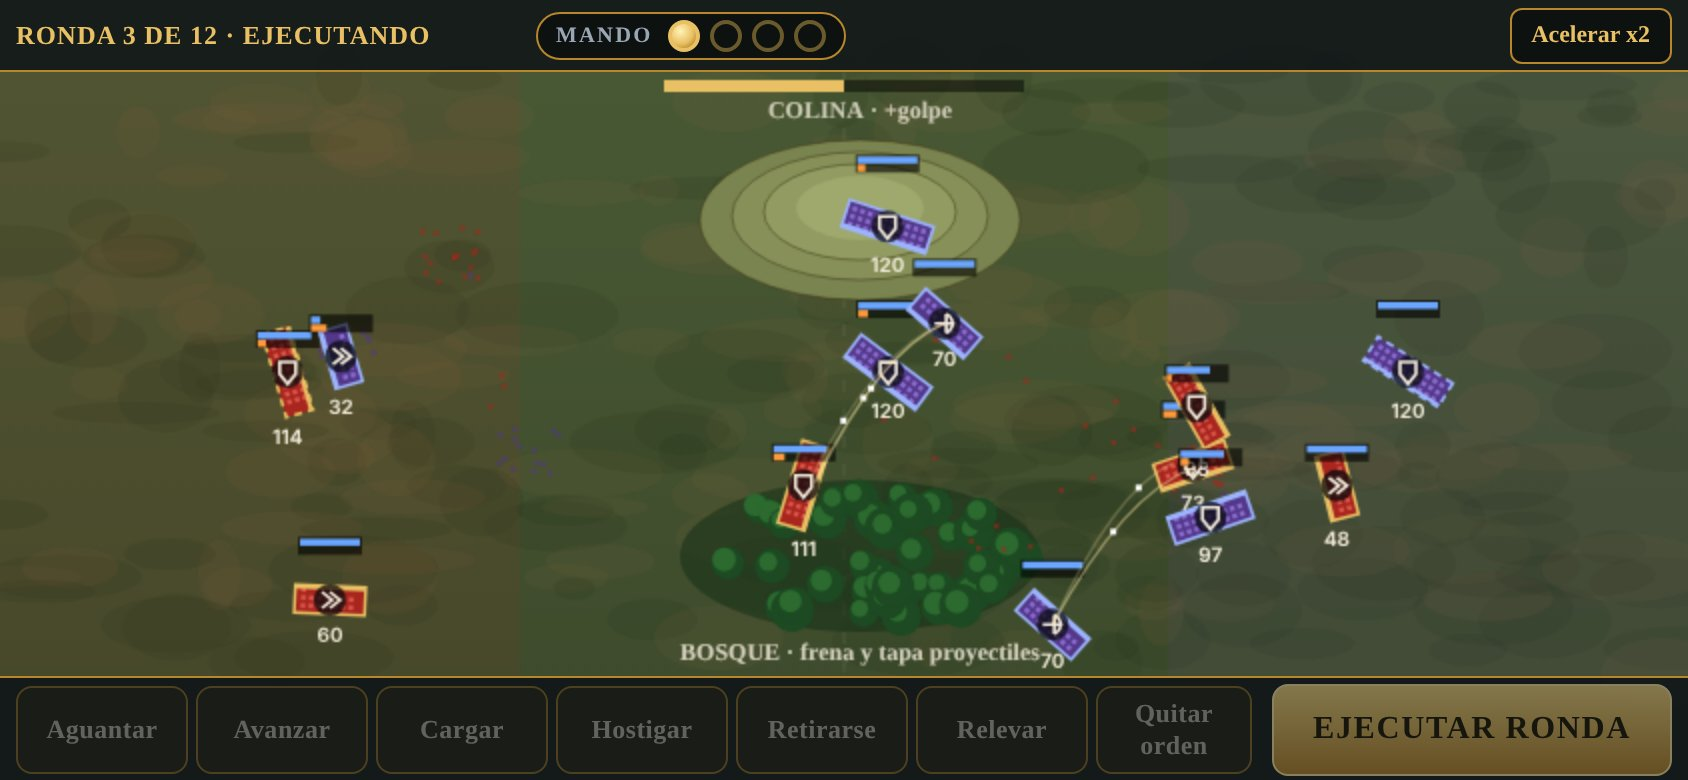
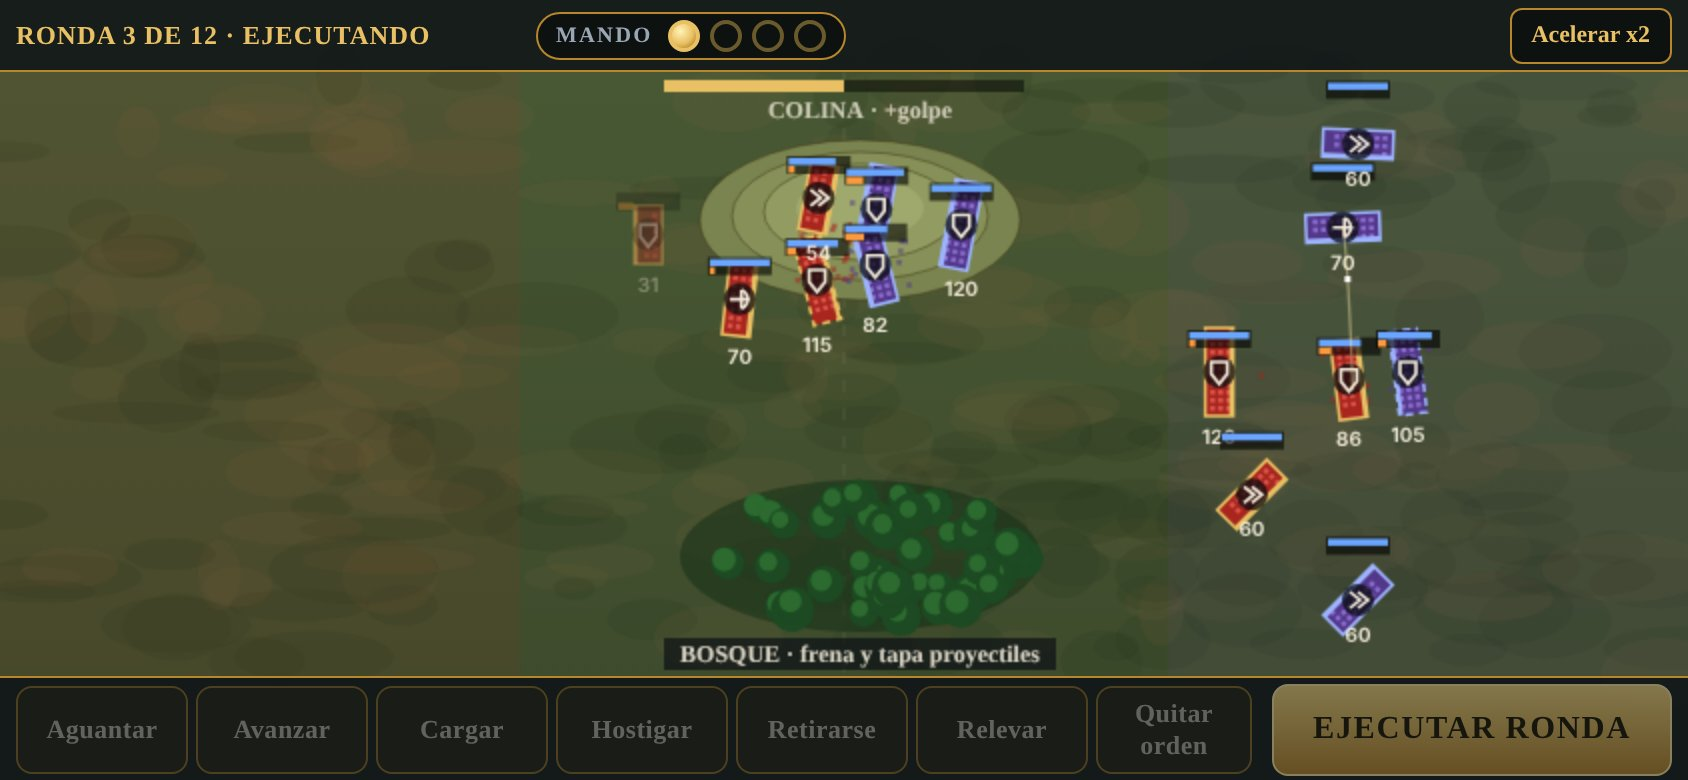
N1 cerrada: maqueta de la guerra nueva ajustada, capturas, parte, tablero y bitácora; P74 por aprobar
Claude-Session: https://claude.ai/code/session_01QiKC395FrCsExLYCywNuqD

diff --git a/gobierno/maquetas/guerra-nueva.html b/gobierno/maquetas/guerra-nueva.html
@@ -105,7 +105,7 @@ function newBattle(){
  mk(0,'pes','Triarii (reserva)',140,186,true);mk(0,'lig','Velites',172,128);
  mk(0,'cav','Equites I',165,72);mk(0,'cav','Equites II',165,300);
  mk(1,'pes','Infantería libia I',215,125);mk(1,'pes','Infantería libia II',215,186);mk(1,'pes','Veteranos africanos',215,247);
- mk(1,'pes','Guardia sagrada (reserva)',140,186,true);mk(1,'lig','Honderos baleares',172,128);mk(1,'lig','Lanzadores',172,244);
+ mk(1,'pes','Guardia sagrada (reserva)',140,186,true);mk(1,'lig','Honderos baleares',172,128);
  mk(1,'cav','Jinetes númidas I',165,72);
  mk(1,'cav','Jinetes númidas II',165,300);
  plan=PLANES[Math.floor(Math.random()*3)];
@@ -186,10 +186,10 @@ function fatf(u){return 1-.4*u.fat}
 function text(x,y,t,col){floats.push({x:x,y:y,t:t,c:col,age:0})}
 function apply(e,dmg,m,src){
  dmg=Math.min(dmg,e.men);e.men-=dmg;rloss[e.side]+=dmg;loss[e.side]+=dmg;e.hitT=0;
- e.moral-=dmg/e.max*1.7*(m>1?m:1);
+ e.moral-=dmg/e.max*1.25*(m>1?m:1);
  e.mk+=dmg;while(e.mk>=2.5){e.mk-=2.5;if(marks.length<500)marks.push({x:e.x+rnd(-16,16),y:e.y+rnd(-14,14),s:e.side})}
- if(m>=1.5&&e.flT<=0){
-  e.flT=1.8;text(e.x,e.y-26,m>=2?'¡Espalda!':'¡Flanco!','#ffe08a');flashes.push({x:e.x,y:e.y,age:0});
+ if(m>=1.6&&e.flT<=0){
+  e.flT=1.8;text(e.x,e.y-26,m>=2.2?'¡Espalda!':'¡Flanco!','#ffe08a');flashes.push({x:e.x,y:e.y,age:0});
   e.moral-=.05;
  }
  if(e.men<=2){e.gone=true;e.men=0;text(e.x,e.y-26,'Destruido','#ffb4a8');scare(e)}
@@ -244,6 +244,7 @@ function step(dt){
   u=U[i];if(!active(u))continue;
   for(var k=i+1;k<U.length;k++){
    e=U[k];if(!active(e))continue;
+   if((u.relevo&&u.partner===e)||(e.relevo&&e.partner===u))continue;
    var md=e.side===u.side?25:23,dd=dist(u,e);
    if(dd<md&&dd>.01){var p=(md-dd)/2,ux=(u.x-e.x)/dd,uy=(u.y-e.y)/dd;u.x+=ux*p;u.y+=uy*p;e.x-=ux*p;e.y-=uy*p}
   }
@@ -258,16 +259,16 @@ function step(dt){
     var mult=1;
     var vx=u.x-e.x,vy=u.y-e.y,vl=Math.hypot(vx,vy)||1;
     var cs=(vx*Math.cos(e.ang)+vy*Math.sin(e.ang))/vl;
-    var fm=cs>.45?1:cs>-.45?1.5:2;
+    var fm=cs>.45?1:cs>-.45?1.7:2.5;
     if(u.tipo==='cav'&&e.tipo==='lig')mult*=2.2;
     if(u.tipo==='cav'&&e.tipo==='pes')mult*=.7;
     if(u.tipo==='pes'&&e.tipo==='cav')mult*=1.25;
     if(u.tipo==='lig')mult*=.8;
-    if(oo==='charge'&&u.cT<3){mult*=(u.tipo==='cav'?2.4:1.6)}
+    if(oo==='charge'&&u.cT<3){mult*=(u.tipo==='cav'?2.2:1.4)}
     if(oo==='charge')u.cT+=dt;
     if(inEll(u.x,u.y,HILL))mult*=1.3;
     if(inEll(u.x,u.y,FOR)&&u.tipo==='cav')mult*=.7;
-    var dm=u.men*T.atk*.02*mult*fatf(u)*fm*dt/TIPOS[e.tipo].def;
+    var dm=u.men*T.atk*.015*mult*fatf(u)*fm*dt/TIPOS[e.tipo].def;
     apply(e,dm,fm,u);
    }else if(u.tipo==='lig'&&u.near&&u.nd<=T.rng&&(!u.mv||oo==='harass'||oo==='hold')){
     e=u.near;
@@ -314,10 +315,10 @@ function aiPlan(){
    var idx=pi++,x,y,o='advance';
    if(plan.id==='centro'){
     x=Math.max(cx+50,330);y=u.y;
-    if(nd<170)o='charge';
+    if(nd<110)o='charge';
    }else if(plan.id==='alas'){
     if(round<=2){o='hold';x=u.x;y=u.y}
-    else{x=Math.max(cx+50,330);y=u.y;if(nd<150)o='charge'}
+    else{x=Math.max(cx+50,330);y=u.y;if(nd<110)o='charge'}
    }else{
     var hx=[470,420,380];x=HILL.x+(idx-1)*48;y=HILL.y+(idx===1?24:6);
     if(Math.hypot(u.x-x,u.y-y)<12||nd<60)o='hold';
@@ -345,7 +346,7 @@ function aiPlan(){
  var n=0;
  U.forEach(function(u){u.taken=false});
  wants.forEach(function(w){
-  if(n>=PTS)return;
+  if(n>=3)return;
   var u=w.u,same=u.order===w.o&&(w.o==='hold'||w.o==='relevar'||Math.hypot(u.tx-w.x,u.ty-w.y)<40);
   if(same)return;
   var ok=setOrder(u,w.o,w.x,w.y,true);

diff --git a/gobierno/BITACORA.md b/gobierno/BITACORA.md
@@ -77,12 +77,13 @@ Regla: lo nuevo se apunta aquí; cuando el usuario lo aprueba, pasa al tablero. 
   - **Duración a elegir**: partida corta de unas horas, o larga de semanas o meses, siempre **con un final**.
 
 ## Esperando algo del usuario
-- **Probar la maqueta de la guerra nueva** en el móvil, en horizontal, y decir si convence; después, aprobar el carril N entero o solo N2 a N6 (`estudios/N1-guerra-nueva.md`).
+- **Probar la maqueta de la guerra nueva** en el móvil, en horizontal (https://alvariitosw.github.io/Bot-travian/gobierno/maquetas/guerra-nueva.html), y contestar: ¿convence?, ¿carril N entero (P74) o solo N2 a N6?, ¿puntos de mando sí o no?
 - **Aprobar P65 (Foro y chips)**, cuando terminen J6 y J7.
 - **Aprobar o rechazar P67 a P73** (ideas de otros juegos de romanos) y decir por cuál empezar. Recomendación de Claude: P72 Emboscadas y P67 Barrios, que son pequeñas y se notan al jugar.
 
 ## Propuestas por aprobar
 - P65 **Gobierno: política con multitudes y chips** (discursos y revueltas que se ven en el Foro por clases sociales; chips verde/rojo con el efecto de cada decisión por clase); iría con J5. (decisión del 11/11)
+- P74 **Carril N: construir la guerra nueva** (N2 a N10 del diseño `estudios/N1-guerra-nueva.md`): batalla por rondas con puntos de mando, enemigo con planes, relevos y formaciones, espectáculo; y campaña militar con ejércitos con general, comida, asedios y exploración. Unos 12 M, nueve o diez sesiones; recomendado empezar por N2, N4, N3 y N6. Absorbe L3, L1b, A1, A2, A6, A8b, P72 y P73.
 - P67 **Barrios con servicios** (idea de Caesar III): cada ciudad tiene un nivel de barrio de 1 a 4 según tenga agua, comida, ocio, templo y termas; más nivel, más gente e impuestos; si falta algo, baja con 2 o 3 meses de retraso. Mínima: tres niveles con agua, comida y templo. ≈1,0 M, una sesión. Estudio: `estudios/R1-barrios-con-servicios.md`.
 - P68 **Población por clases** (idea de Imperator: Rome): ciudadanos, plebeyos y esclavos en cada ciudad, con su felicidad; las conquistas traen esclavos y se puede dar ciudadanía por oro. Mínima: solo esclavos (más producción, menos felicidad). 1,5 a 2,5 M, dos sesiones; toca la mano de obra (I3). Va con P65. Estudio: `estudios/R2-poblacion-por-clases.md`.
 - P69 **Radio de efecto de los edificios** (idea de Grand Ages: Rome): templos y termas dan bono a los solares vecinos, los talleres lo quitan; al elegir solar se iluminan en verde o rojo. Mínima: el templo da felicidad a sus dos vecinos. 0,7 a 1,2 M; se nota poco con 7 a 10 solares: mejor después de P67 y J3. Estudio: `estudios/R3-radio-de-efecto.md`.
@@ -104,6 +105,7 @@ Cada una, al cerrar cada tarea: jueces APTO, unir a la rama única, tablero y bi
 En cola tras el carril Campaña (tocan lo mismo): J3 Capital y pueblos → J4 Mapa más grande por regiones → J5 Política territorial.
 
 ## Encargo de la próxima sesión
+000. Carril N: N1 hecha (11/11). Si el usuario aprueba P74, sigue **N2 Rondas** en `js/battle.js` y la pantalla de batalla. La maqueta expone `window.AQ` para pruebas. Sesión del 11/11 (cuadro, estudios R1 a R7, N1): 2,6 M, de ellos 1,35 de Fable.
 00. **O1 Economía nueva: diseño y pantalla de prueba** (pedido del usuario, 11/11). Presupuesto mensual de materiales con sobrante al almacén con tope; ingresos y gastos del mes a la vista; repasar comercio, impuestos, mano de obra y mantenimiento como un todo. Salida: `gobierno/estudios/O1-economia-nueva.md` y una maqueta en `gobierno/maquetas/`. Tener en cuenta P67 (barrios), P68 (clases) y las rutas (B2). Sin tocar el juego.
 0b. Carril Guerra interfaz: L1 y L2 hechas (11/11). Siguiente: L3 (fantasmas en pausa y cartas de táctica) o L1b (testudo si el usuario lo quiere como regla, trazo en 2D, HUD vertical). L2 gastó 0,75 M.
 0. Carril Interfaz: J6 hecha (11/11). Sigue **J7 Parte densa** (incluye J2): pestañas también en el mapa, Imperio con filtros, cola de obras. Presupuestar con el dato: J6 gastó ~1,5 M sobre 0,65 presupuestado; encargar al constructor piezas más pequeñas.

diff --git a/gobierno/TABLERO.md b/gobierno/TABLERO.md
@@ -86,7 +86,8 @@ Maquetas: `maquetas/concurso2/K2-guerra-B-legado.html` y `K2-guerra-D-estandarte
 - ⬜ L3 **Fantasmas en pausa y cartas de táctica**: deslizador de tiempo con sombras a 10/20/30 s; atajos de testudo, carga, retirada y refuerzo.
 
 ## Carril N — Guerra nueva: «planeas y luego miras» (pedido 11/11/2026; diseño `gobierno/estudios/N1-guerra-nueva.md`)
-- 🔶 N1 **Diseño y maqueta jugable** de la guerra nueva: batalla por rondas (plan en pausa, ejecución para los dos), puntos de mando, enemigo con planes; y campaña militar con ejércitos, comida y asedios. Maqueta: `gobierno/maquetas/guerra-nueva.html`. Las tareas N2 a N10 esperan a que el usuario la pruebe; en pausa L3, A1, A2, A6 y A8b.
+- ✅ N1 **Diseño y maqueta jugable de la guerra nueva** (11/11): batalla por rondas (plan en pausa, ejecución para los dos), 4 puntos de mando, sombras, relevo y enemigo con tres planes. Maqueta `gobierno/maquetas/guerra-nueva.html`; parte `partes/2026-11-11-N1.md`. En pausa hasta que el usuario decida: L3, A1, A2, A6 y A8b.
+- ⬜ N2 a N10 **por aprobar** (propuesta P74): rondas, mando y general, enemigo con planes, relevos y formaciones, espectáculo, ejércitos con general, comida, asedios, exploración. Unos 12 M en total; detalle en el diseño.
 
 ## Carril O — Economía nueva (pedido 11/11/2026)
 - ⬜ O1 **Diseño y pantalla de prueba de la economía nueva**: presupuesto mensual de materiales (gastas lo que entra en el mes; lo que sobra va al almacén hasta su tope), ingresos y gastos del mes a la vista, y repaso de comercio, impuestos y mantenimiento. Sin tocar el juego hasta que el usuario lo vea.

diff --git a/gobierno/partes/2026-11-11-N1.md b/gobierno/partes/2026-11-11-N1.md
@@ -1,0 +1,9 @@
+# Parte · N1 Guerra nueva: diseño y maqueta · 11/11/2026
+**Resultado**: hecho.
+**Qué cambia para el jugador**: nada en el juego todavía. Hay un diseño (`gobierno/estudios/N1-guerra-nueva.md`) y una maqueta jugable en horizontal (`gobierno/maquetas/guerra-nueva.html`): batalla por rondas, plan en pausa y ejecución para los dos bandos, 4 puntos de mando, sombras, relevo y enemigo con tres planes.
+**Archivos**: el diseño, la maqueta, tres capturas `gobierno/capturas-tarea/N1-*.jpg`, tablero, bitácora y cuadro.
+**Jueces**: APTO 14/14 al empezar la sesión; el juego no se ha tocado después, no se repitieron.
+**Pruebas de la maqueta**: sin errores de consola. Con jugadores de guion (40 batallas cada uno): sin órdenes gana 0; al azar, 22 %; sensato, 67 %; unas 8 rondas de media. Margen de ±15 puntos. Sin probar con dedo real ni en vertical (solo el aviso «Gira el móvil»).
+**Cuentas**: presupuesto 1,25 M para N1. La sesión entera (cuadro, vídeo, siete estudios, N1 y dos pedidos nuevos) gastó 2,63 M: Fable 1,35, Sonnet 1,25, Haiku 0,03; el constructor, 0,61. `gasto.mjs` no separa N1 del resto. Se fue en una sesión con cuatro encargos seguidos; se ahorraría con una sesión por encargo.
+**Queda pendiente**: N2 a N10 (P74). Citas históricas del diseño, de memoria: cotejar con la skill `historia`.
+**Decide el usuario**: si la maqueta convence; carril N entero o N2 a N6; puntos de mando sí o no.
